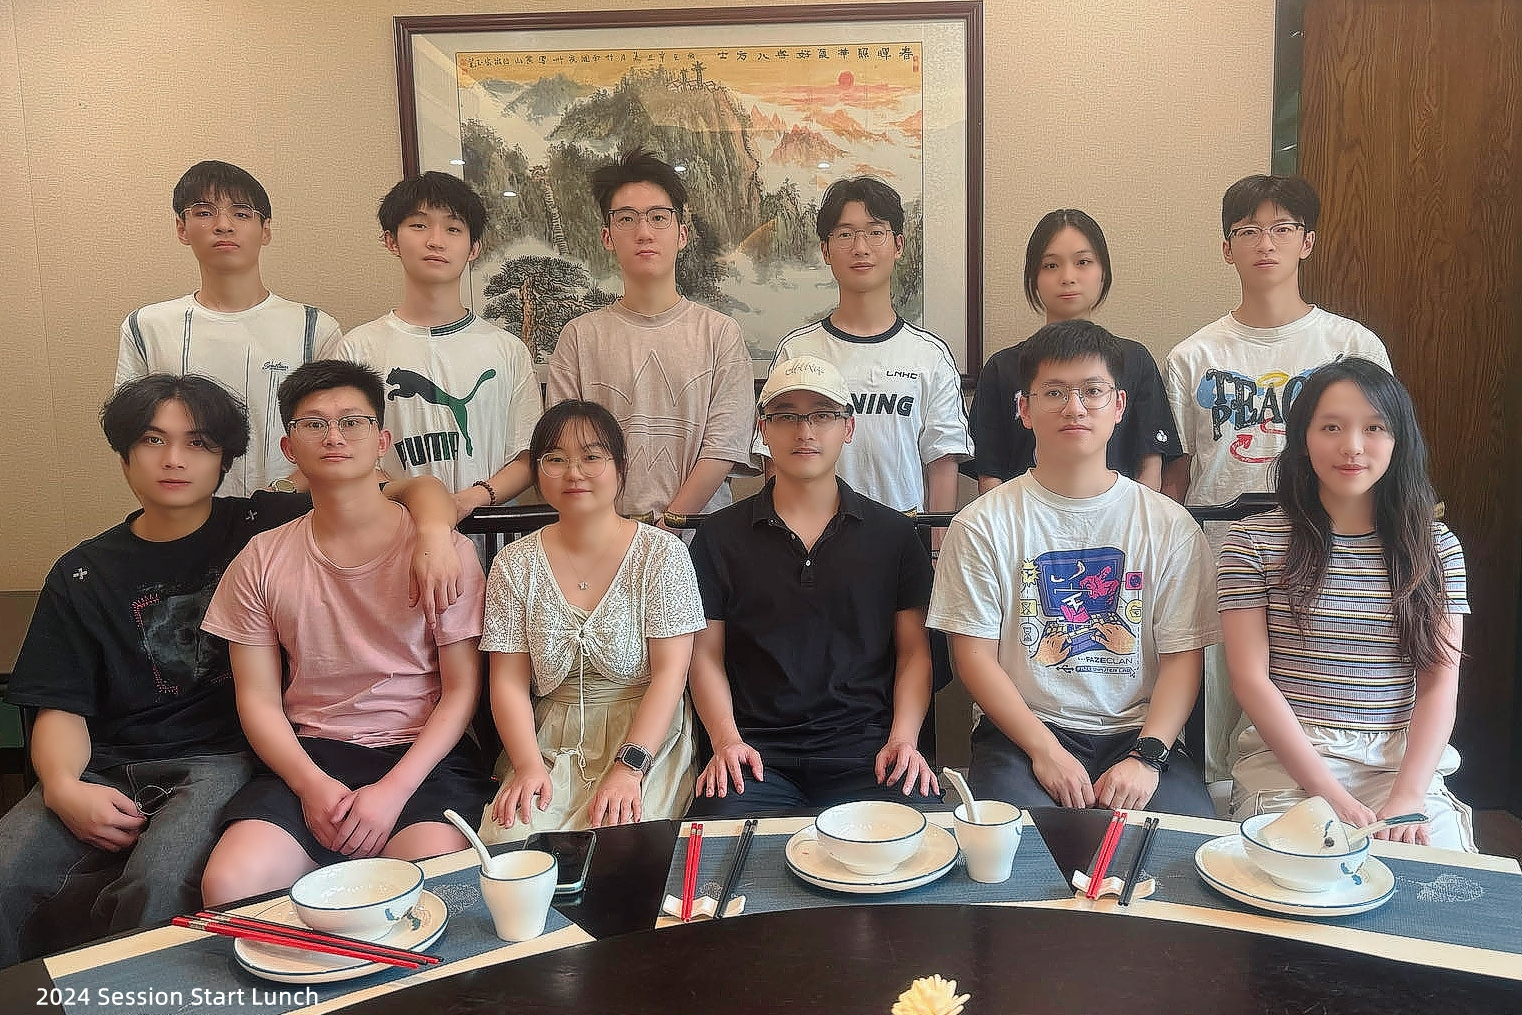
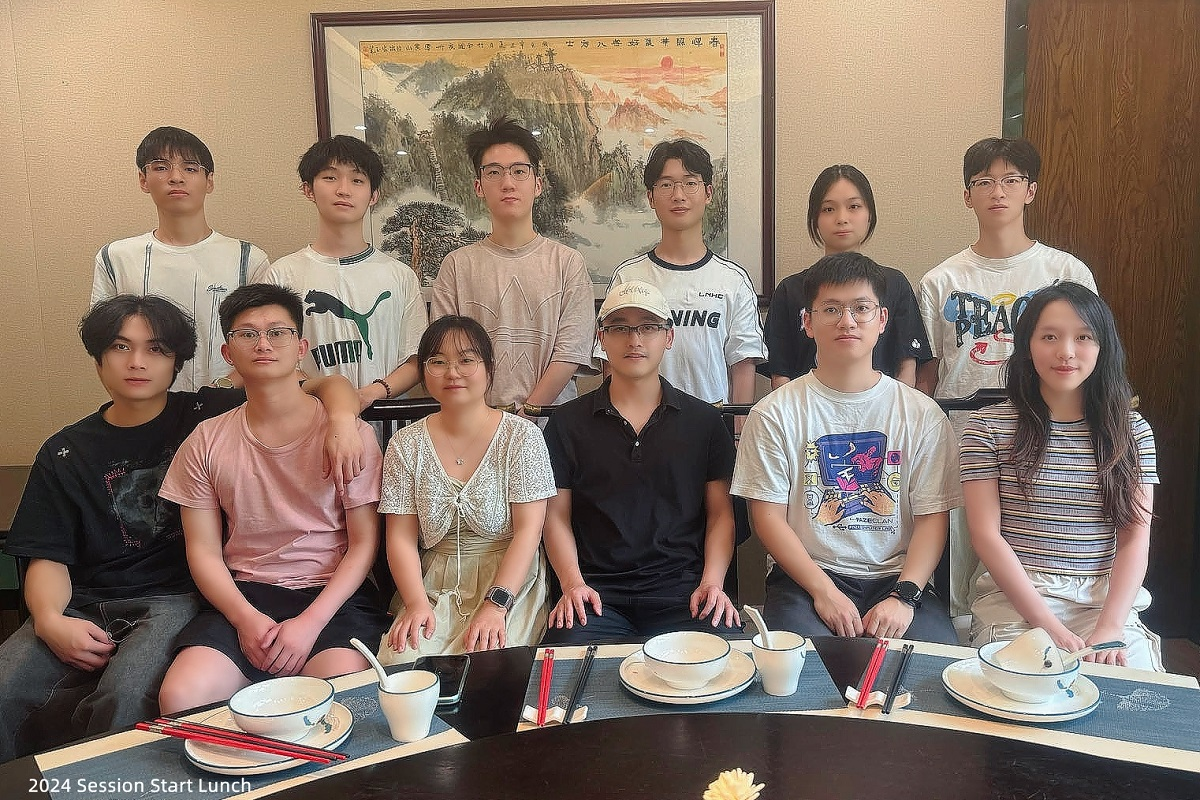
Research、People、Contact：图片大小调整适配窗口

diff --git a/layouts/landing/people.html b/layouts/landing/people.html
@@ -29,6 +29,6 @@
   {{ partial "people-custom.html" . }}
   <hr class="section-divider">
   <div class="group-photo">
-    <img src="/images/9_课题组合照_2024.jpg?fm=webp" alt="Group Photo 1">
+    <img src="/images/课题组合照_2024(1200).jpg?fm=webp" alt="Group Photo 1">
   </div>
 {{ end }}

diff --git a/content/contact/index.md b/content/contact/index.md
@@ -52,5 +52,5 @@ date: 2024-07-07
 </div>
 
 <div class="campus-image">
-    <img src="./图书馆鸟瞰.png?fm=webp" alt="图书馆鸟瞰">
+    <img src="./图书馆鸟瞰(720).png?fm=webp" alt="图书馆鸟瞰">
 </div>
